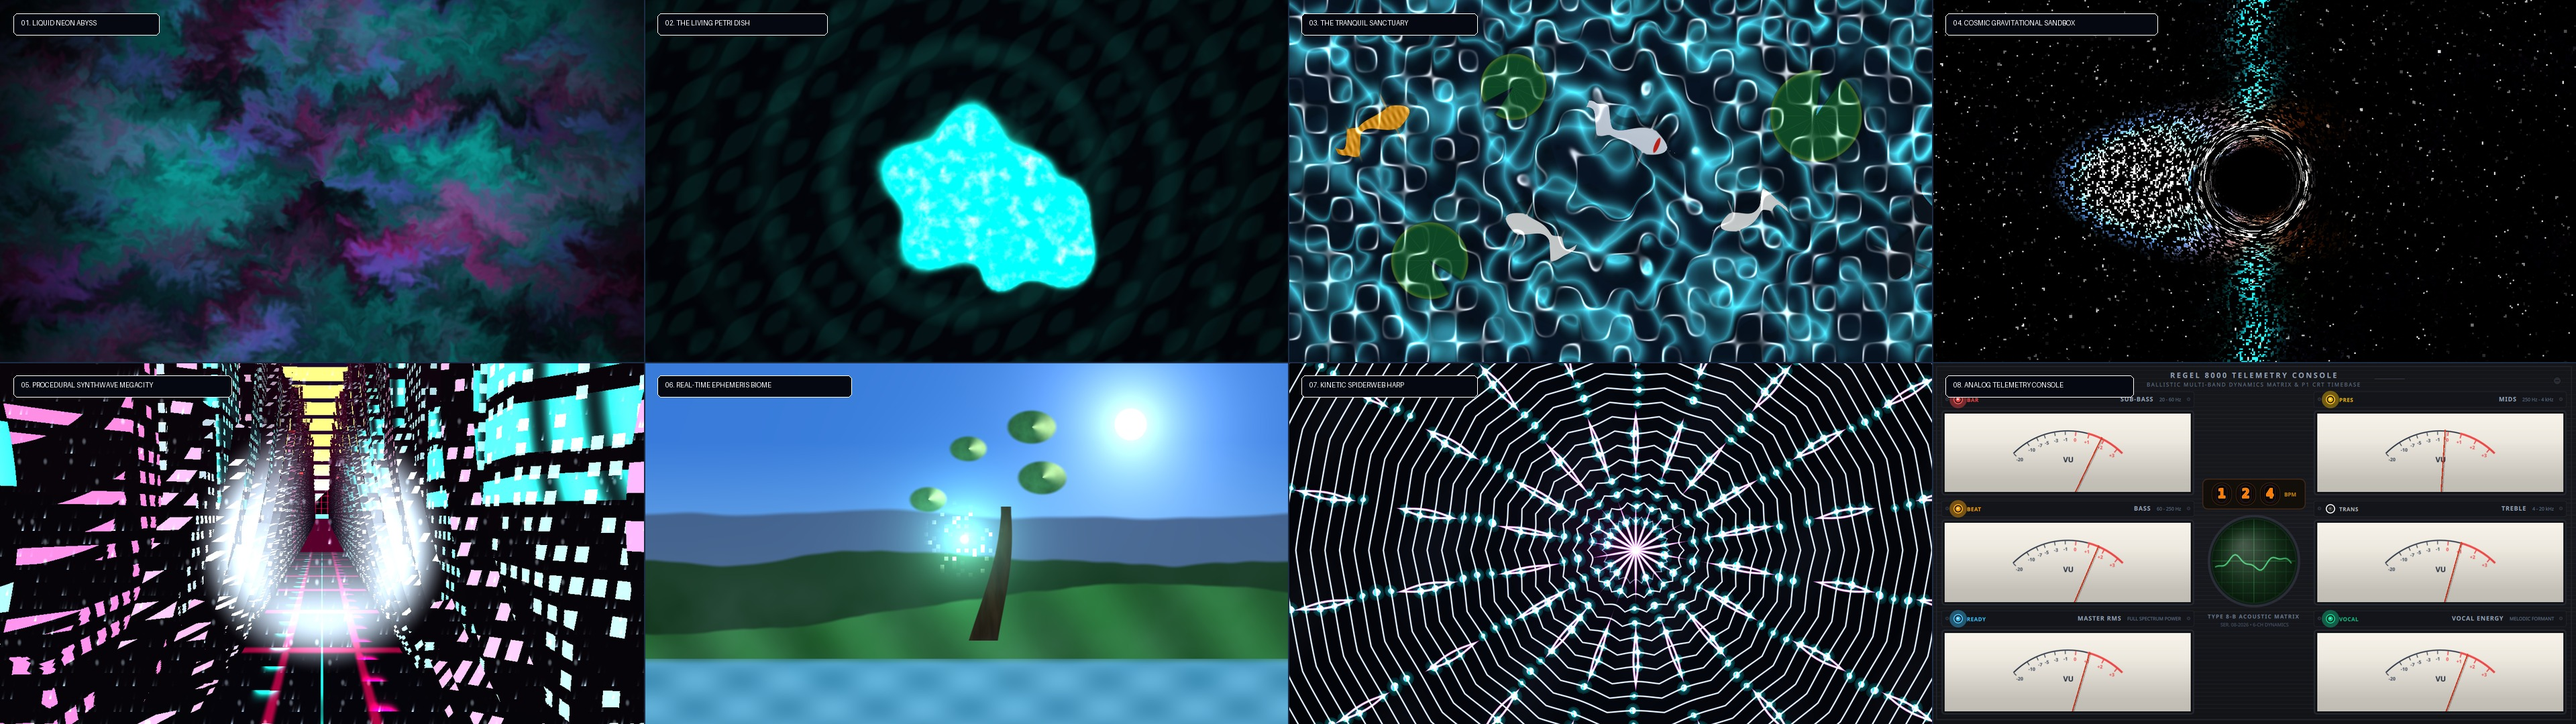
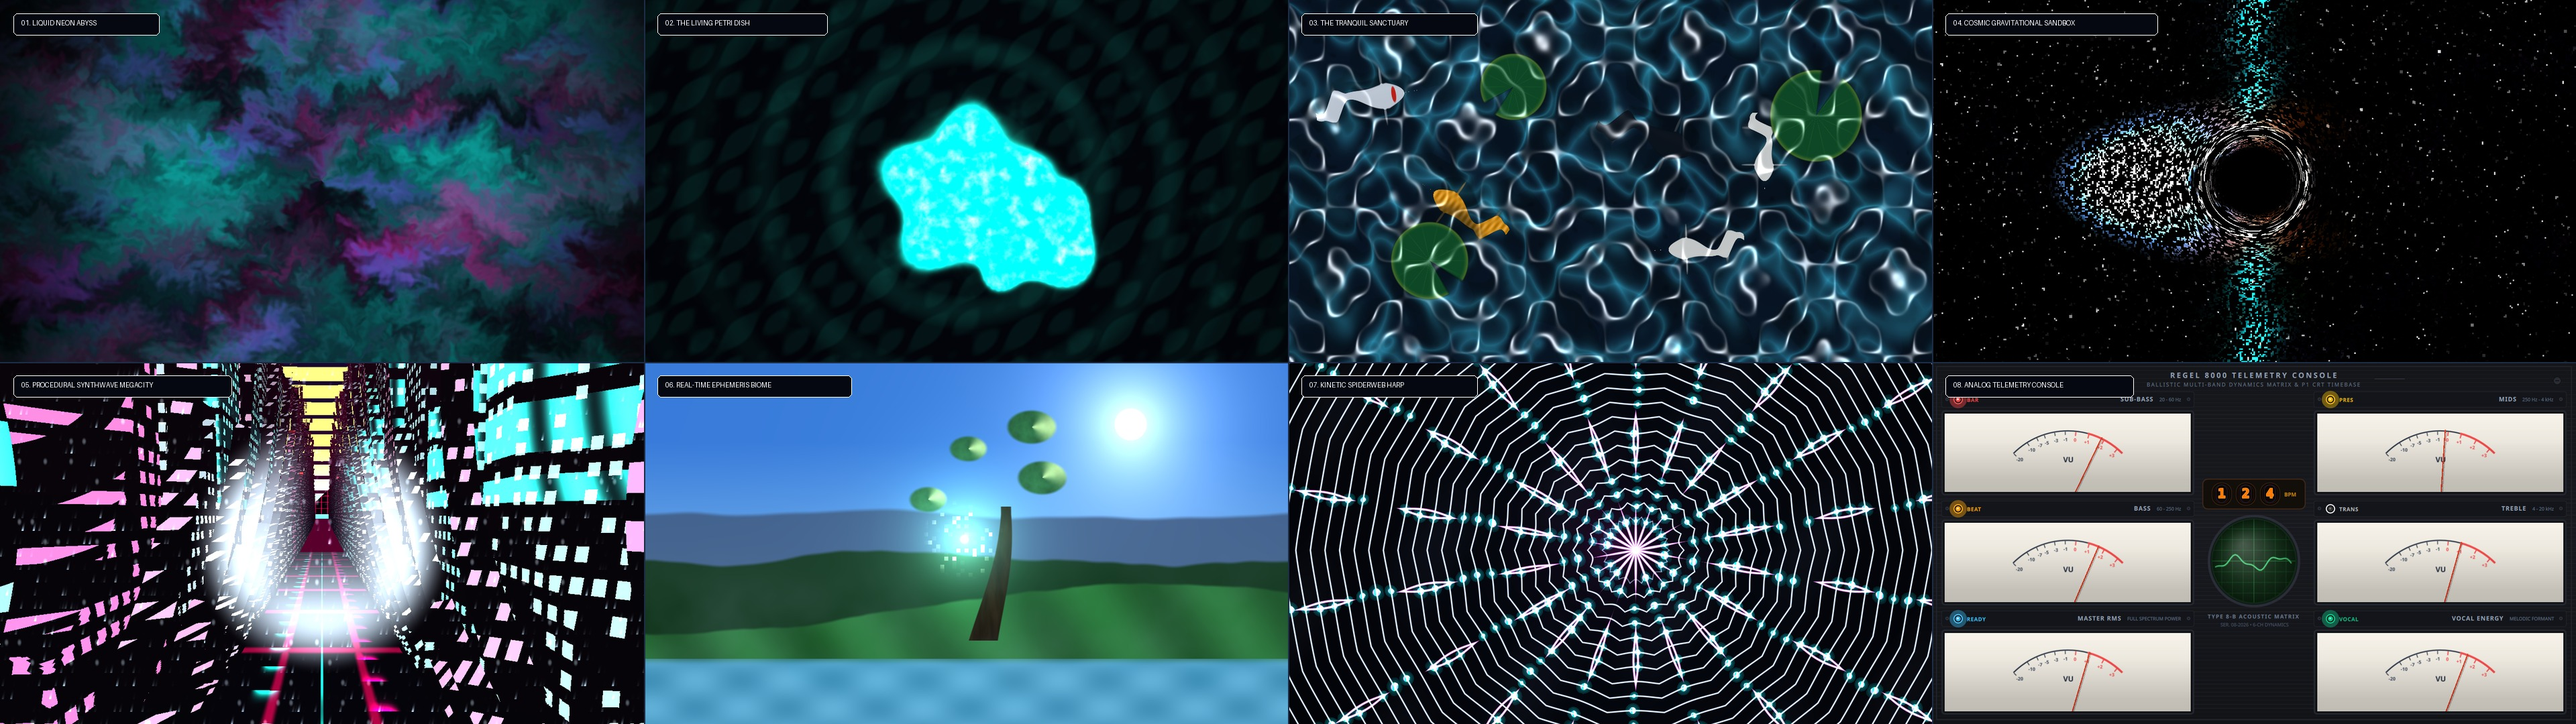
fix(koi): smooth forward-only swimming, eliminate temporal reversal, and mute sanctuary effects

Changed region(s): [[0.5, 0.0, 0.75, 0.5194]]

diff --git a/engine/TranquilKoiSanctuary.qml b/engine/TranquilKoiSanctuary.qml
@@ -37,31 +37,51 @@ Item {
     property real vocalEnergy: 0.0
     property bool transientHit: false
 
-    // Water ripple expansion on downbeat
+    // Forward-only integrated time (strictly forward progression, no backwards temporal oscillation)
+    property real koiTime: 0.0
+    property real prevSimTime: 0.0
+    onSimTimeChanged: {
+        var dt = root.simTime - prevSimTime;
+        if (dt < 0.0 || dt > 0.25) {
+            dt = 0.016;
+        }
+        prevSimTime = root.simTime;
+
+        // Influence speed ONLY forwards and ONLY so slightly (0.0 to +4% gentle forward impulse during stroke)
+        var forwardImpulse = 0.0;
+        if (root.beat) {
+            forwardImpulse = 0.04;
+        } else if (root.beatPhase > 0.0 && root.beatPhase < 0.5) {
+            forwardImpulse = 0.025 * Math.sin(root.beatPhase * 2.0 * Math.PI);
+        }
+        koiTime += dt * (1.0 + Math.max(0.0, forwardImpulse));
+    }
+
+    // Gentle, soft water ripple on downbeat
     property real downbeatRipple: 0.0
     onDownbeatChanged: {
         if (downbeat) {
-            downbeatRipple = 1.0
+            downbeatAnim.restart();
         }
     }
 
-    NumberAnimation on downbeatRipple {
-        running: root.downbeatRipple > 0.0
-        from: root.downbeatRipple
+    NumberAnimation {
+        id: downbeatAnim
+        target: root
+        property: "downbeatRipple"
+        from: 1.0
         to: 0.0
-        duration: 320
-        easing.type: Easing.OutQuad
+        duration: 480
+        easing.type: Easing.OutCubic
     }
 
     ShaderEffect {
         id: koiShader
         anchors.fill: parent
 
-        // Neural audio aquatic choreography
-        readonly property real strokeMod: 1.0 + 0.25 * Math.sin(Math.PI * 2.0 * root.beatPhase)
-        readonly property real effectiveShockwave: Math.max(root.shockwaveIntensity, root.downbeatRipple * 0.75)
-        readonly property real vocalShimmer: root.isVocal ? root.vocalEnergy * 0.35 : 0.0
-        readonly property real effectiveClarity: root.waterClarity * (1.0 + vocalShimmer * 0.25)
+        // Neural audio aquatic choreography - muted, subtle and serene
+        readonly property real vocalShimmer: root.isVocal ? root.vocalEnergy * 0.08 : 0.0
+        readonly property real effectiveClarity: root.waterClarity * (1.0 + vocalShimmer * 0.04)
 
         // Uniforms matching GLSL std140 uniform block in koi.frag
         property vector2d u_resolution: Qt.vector2d(Math.max(1.0, root.width), Math.max(1.0, root.height))
@@ -70,18 +90,18 @@ Item {
         property vector2d u_keystroke_pos: Qt.vector2d(root.keystrokePos.x, root.keystrokePos.y)
         property vector2d u_keystroke_dir: Qt.vector2d(root.keystrokeDir.x, root.keystrokeDir.y)
         property vector2d u_beat_center: Qt.vector2d(root.beatCenter.x, root.beatCenter.y)
-        property vector2d u_ambient_drift: Qt.vector2d(root.ambientDrift.x * strokeMod, root.ambientDrift.y * strokeMod)
+        property vector2d u_ambient_drift: Qt.vector2d(root.ambientDrift.x, root.ambientDrift.y)
         property color u_color_water: root.colorWater
         property color u_color_pebbles: root.colorPebbles
-        property color u_color_caustics: Qt.rgba(Math.min(1.0, root.colorCaustics.r + vocalShimmer * 0.2), Math.min(1.0, root.colorCaustics.g + vocalShimmer * 0.3), Math.min(1.0, root.colorCaustics.b + vocalShimmer * 0.4), 1.0)
+        property color u_color_caustics: Qt.rgba(Math.min(1.0, root.colorCaustics.r + vocalShimmer * 0.05), Math.min(1.0, root.colorCaustics.g + vocalShimmer * 0.07), Math.min(1.0, root.colorCaustics.b + vocalShimmer * 0.08), 1.0)
         property color u_color_accent: root.colorAccent
-        property real u_time: root.simTime
-        property real u_keystroke_energy: root.keystrokeEnergy
-        property real u_shockwave_intensity: effectiveShockwave
-        property real u_vortex_speed: root.vortexSpeed * strokeMod
-        property real u_bass: root.bass
-        property real u_mids: root.mids + vocalShimmer * 0.2
-        property real u_treble: root.treble + (root.transientHit ? 0.2 : 0.0)
+        property real u_time: root.koiTime
+        property real u_keystroke_energy: root.keystrokeEnergy * 0.6
+        property real u_shockwave_intensity: root.shockwaveIntensity * 0.3
+        property real u_vortex_speed: root.vortexSpeed * 0.70
+        property real u_bass: Math.min(0.20, root.bass * 0.30 + root.downbeatRipple * 0.03)
+        property real u_mids: root.mids * 0.35 + vocalShimmer * 0.04
+        property real u_treble: root.treble * 0.30
         property real u_water_clarity: effectiveClarity
 
         vertexShader: Qt.resolvedUrl("shaders/koi.vert.qsb")
